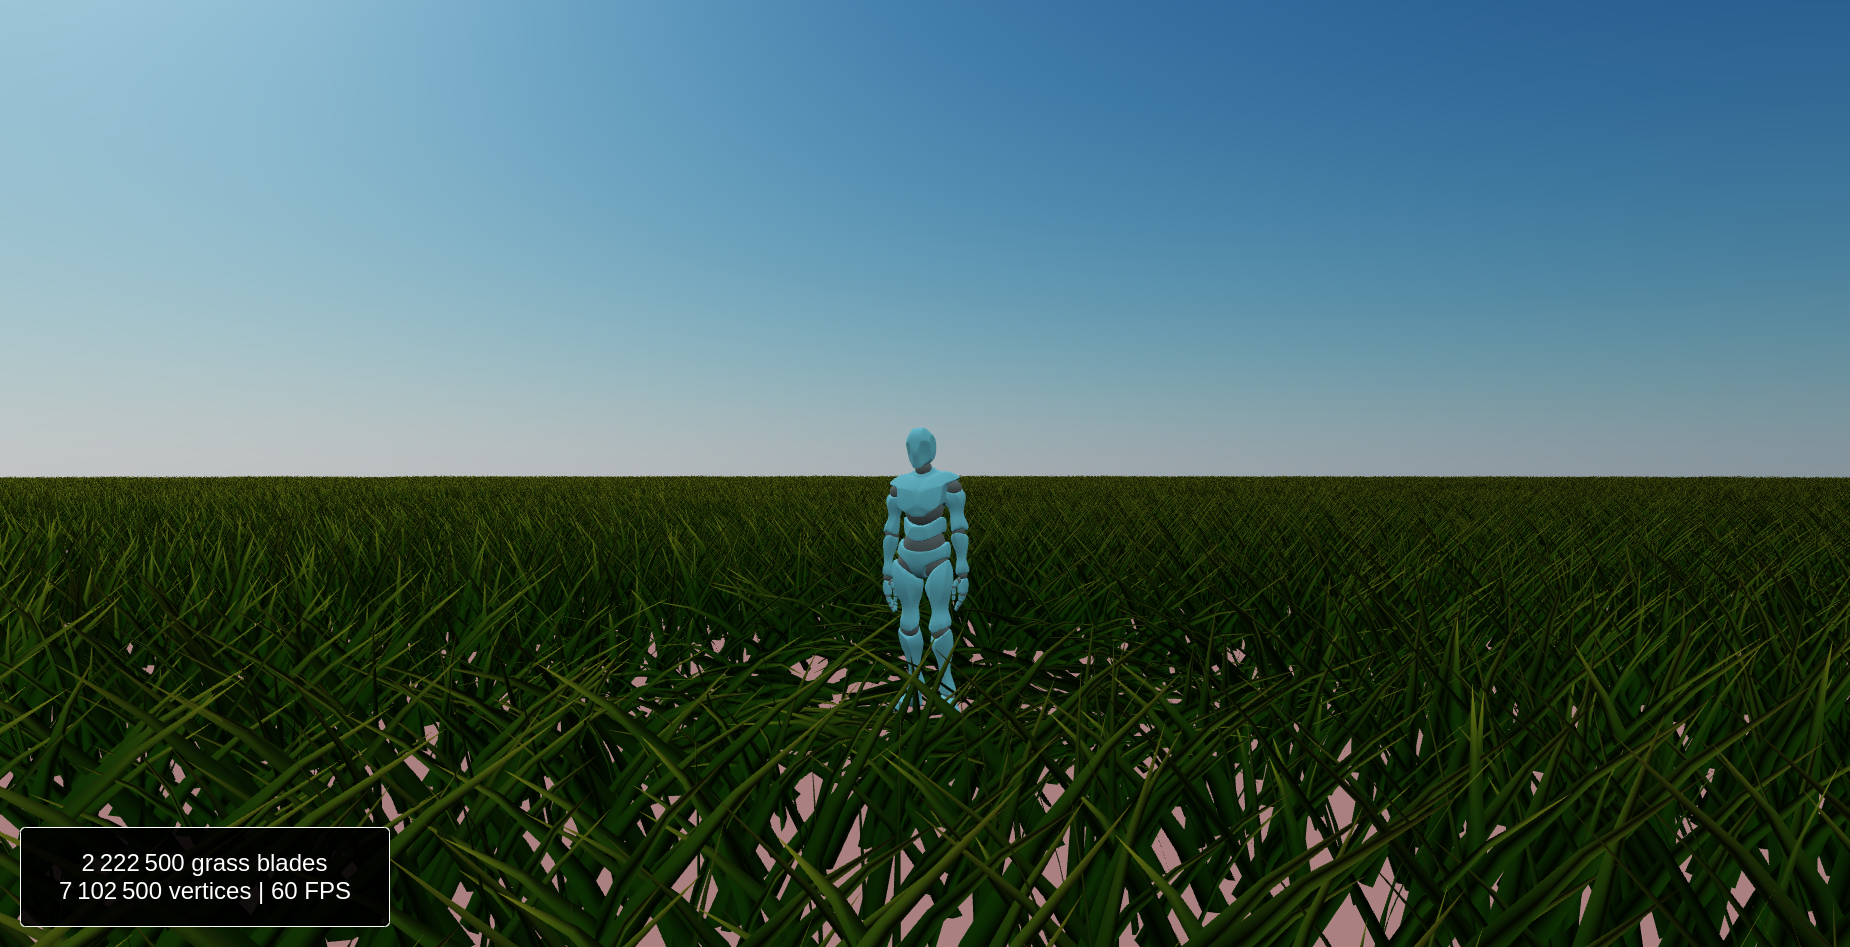
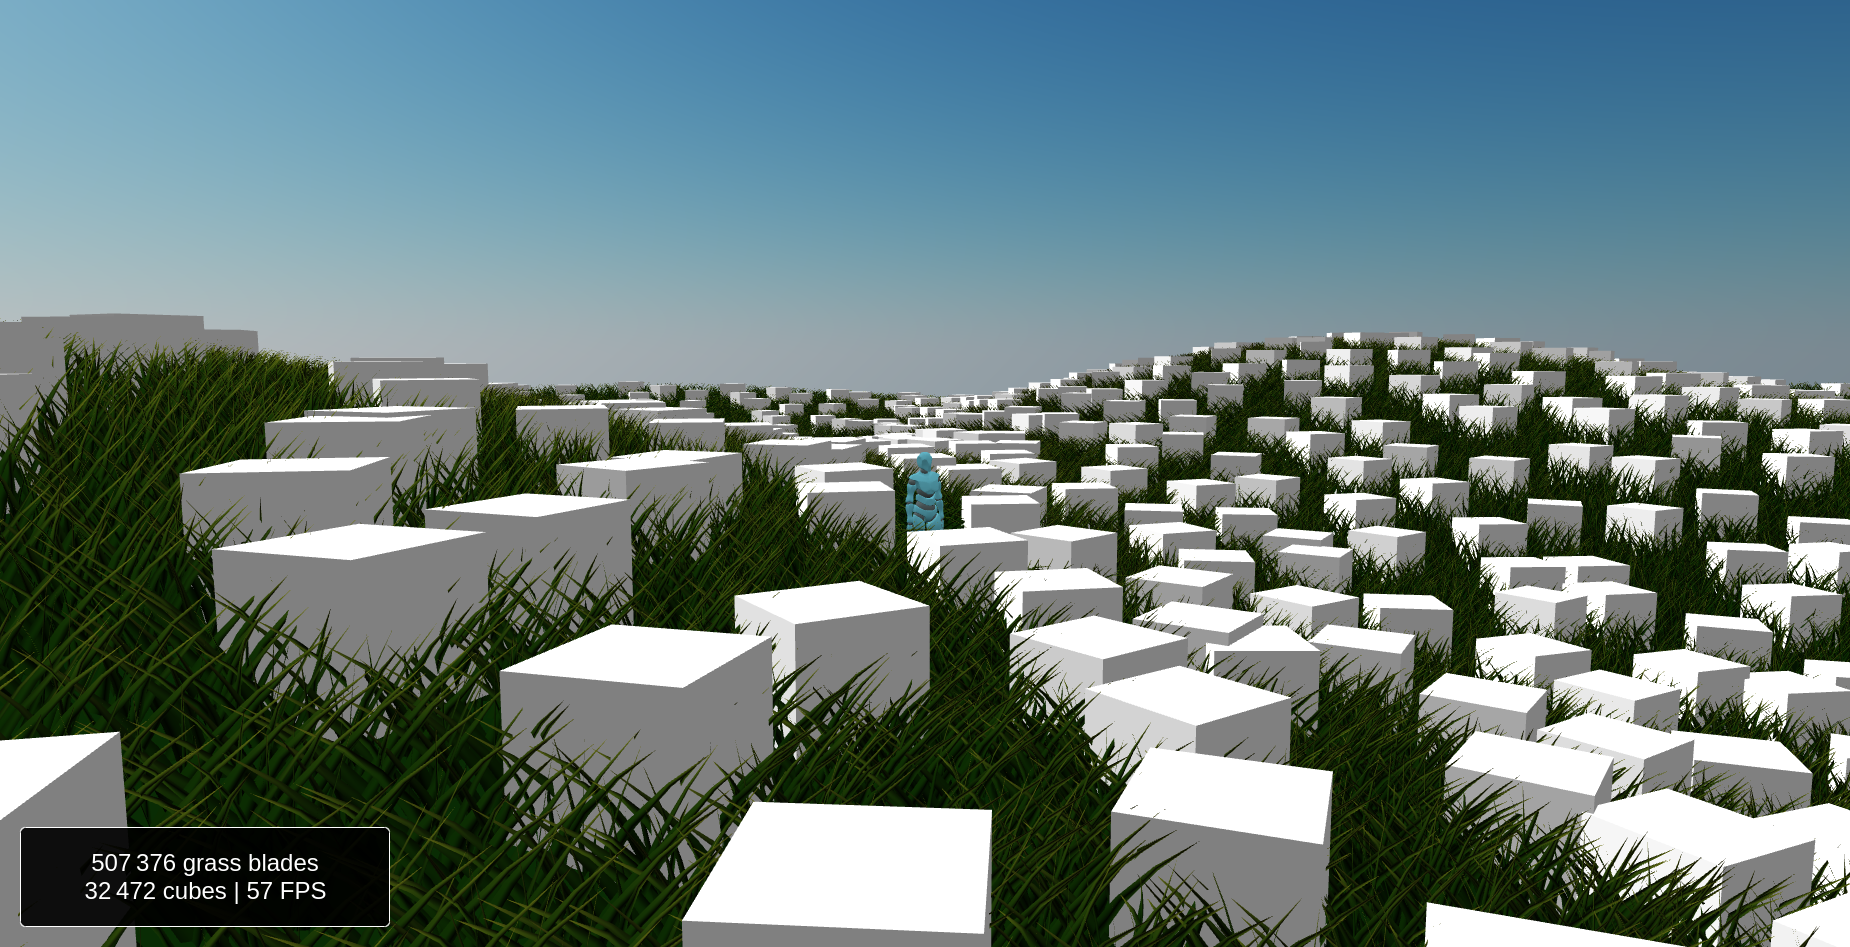
scattered cubes as well
+ instance random scaling

diff --git a/src/ts/index.ts b/src/ts/index.ts
@@ -111,6 +111,23 @@ const ground = new TerrainPatch(100, 64, 50, Vector3.Up(), scene, (x, y) => {
 const grassPatch = new ThinInstancePatch(new Vector3(0, 0, 0), 10, 5, ground.instancesMatrixBuffer);
 grassPatch.createThinInstances(highQualityGrassBlade);
 
+const cube = MeshBuilder.CreateBox("cube", {size: 1}, scene);
+cube.position.y = 0.5;
+cube.isVisible = false;
+const cubeMaterial = new StandardMaterial("cubeMaterial", scene);
+cube.material = cubeMaterial;
+
+// take on in ten instances
+const stride = 250;
+const cubeMatrixBuffer = new Float32Array(16 * Math.floor(grassPatch.matrixBuffer.length / stride));
+let instanceIndex = 0;
+for (let i = 0; i < grassPatch.matrixBuffer.length; i += 16 * stride) {
+    cubeMatrixBuffer.set(grassPatch.matrixBuffer.subarray(i, i + 16), instanceIndex * 16);
+    instanceIndex++;
+}
+const cubePatch = new ThinInstancePatch(new Vector3(0, 0, 0), 10, 5, cubeMatrixBuffer);
+cubePatch.createThinInstances(cube);
+
 const ui = new UI(scene);
 
 document.addEventListener("keypress", (e) => {
@@ -130,8 +147,9 @@ function updateScene() {
     material.setVector3("cameraPosition", camera.position);
     material.setFloat("time", clock);
 
-    /*ui.setText(`${grassScatterer.getNbThinInstances().toLocaleString()} grass blades\n${grassScatterer.getNbVertices().toLocaleString()} vertices | ${engine.getFps().toFixed(0)} FPS`);
+    ui.setText(`${grassPatch.getNbThinInstances().toLocaleString()} grass blades\n${cubePatch.getNbThinInstances().toLocaleString()} cubes | ${engine.getFps().toFixed(0)} FPS`);
 
+    /*ui.setText(`${grassScatterer.getNbThinInstances().toLocaleString()} grass blades\n${grassScatterer.getNbVertices().toLocaleString()} vertices | ${engine.getFps().toFixed(0)} FPS`);
     grassScatterer.update(character.position);*/
 }
 

diff --git a/src/ts/terrainPatch.ts b/src/ts/terrainPatch.ts
@@ -82,8 +82,9 @@ function scatterInTriangle(n: number, instanceIndex: number, instancesMatrixBuff
     for (let i = 0; i < n; i++) {
         const [x, y, z, nx, ny, nz] = randomPointInTriangleFromBuffer(positions, normals, index1, index2, index3);
         const alignQuaternion = getTransformationQuaternion(Vector3.Up(), instanceUp ? instanceUp : new Vector3(nx, ny, nz));
+        const scaling = 0.9 + Math.random() * 0.2;
         const matrix = Matrix.Compose(
-            new Vector3(1, 1, 1),
+            new Vector3(scaling, scaling, scaling),
             alignQuaternion.multiplyInPlace(Quaternion.RotationAxis(Vector3.Up(), Math.random() * 2 * Math.PI)),
             new Vector3(x, y, z)
         );
